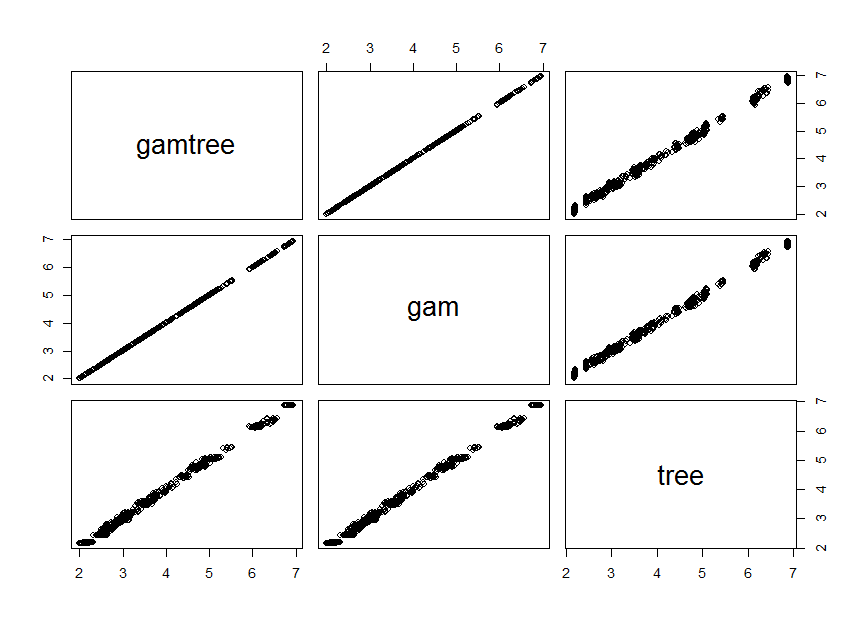
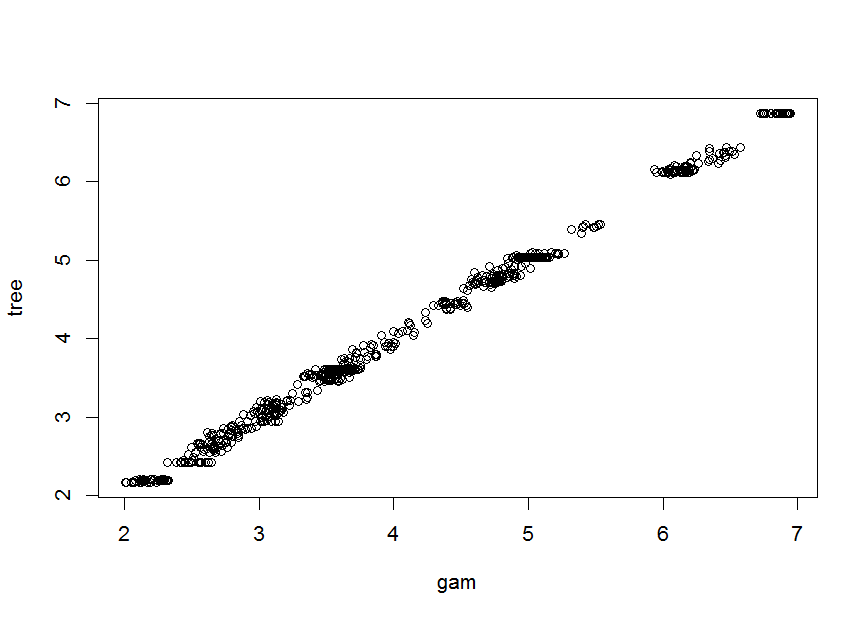
Updated README

diff --git a/README.md b/README.md
@@ -10,13 +10,15 @@ The package is experimental and much work needs to be done still.
 To-do list
 ----------
 
--   Add support for fitting GAMs using `bam()` instead of `gam()` (e.g., create `bam_fit` function, or include additional argument `type = c("gam", "bam")` in `gam_fit()` function.)
+-   Programming: Add support for fitting GAMs using `bam()` instead of `gam()` (e.g., create `bam_fit` function, or include additional argument `type = c("gam", "bam")` in `gam_fit()` function.)
 
--   The estimated smooths from the tree and the full GAM have similar, but not the same coefficients. Is that problematic? See section `Different coefficient estimates` below.
+-   Programming: Allow for specifying multiple different smooth function types, instead of only one, through the `FUN` argument.
 
--   Perform a simulation study to evaluate accuracy. Generate data where there is a local smooth term, with varying coefficients, as well as a global model with random effects and an additional global smooth or global parametric term. Compare accuracy of a full partially additive GAM (i.e., function `gamtree()` with `gam_form` specified), a partitioned GAM (i.e., local GAMs only; function `gamtree()` with `gam_form = NULL`), and a globally fitted GAM (i.e., no partitioning, function `gam()`).
+-   Issue: The estimated smooths from the tree and the full GAM have similar, but not the same coefficients. Is that problematic? See section `Different coefficient estimates` below.
 
--   Compare performance of function `gamtree()` (with and without `gam_form` specified) and `gam()` as in simulation study, but use existing data.
+-   Testing of the method: Perform a simulation study to evaluate accuracy. Generate data where there is a local smooth term, with varying coefficients, as well as a global model with random effects and an additional global smooth or global parametric term. Compare accuracy of a full partially additive GAM (i.e., function `gamtree()` with `gam_form` specified), a partitioned GAM (i.e., local GAMs only; function `gamtree()` with `gam_form = NULL`), and a globally fitted GAM (i.e., no partitioning, function `gam()`).
+
+-   Testing of the method: Compare performance of function `gamtree()` (with and without `gam_form` specified) and `gam()` as in simulation study, but use existing data.
 
 Example
 =======
@@ -639,27 +641,25 @@ We can also compare the predicted values:
 ``` r
 newdat <- eco
 newdat$x <- newdat$PAR
-preds <- data.frame(gamtree = predict(gt4),
-                    gam = predict(gt4$gamm),
+preds <- data.frame(gam = predict(gt4$gamm),
                     tree = predict(gt4$tree, newdata = newdat, 
                                    type = "response"))
 cor(preds)
-#>           gamtree       gam      tree
-#> gamtree 1.0000000 1.0000000 0.9980367
-#> gam     1.0000000 1.0000000 0.9980367
-#> tree    0.9980367 0.9980367 1.0000000
+#>            gam      tree
+#> gam  1.0000000 0.9980367
+#> tree 0.9980367 1.0000000
 colMeans(preds)
-#>  gamtree      gam     tree 
-#> 4.130796 4.130796 4.132666
+#>      gam     tree 
+#> 4.130796 4.132666
 sapply(preds, var)
-#>  gamtree      gam     tree 
-#> 1.700635 1.700635 1.701535
+#>      gam     tree 
+#> 1.700635 1.701535
 sapply(preds, max)
-#>  gamtree      gam     tree 
-#> 6.950960 6.950960 6.873325
+#>      gam     tree 
+#> 6.950960 6.873325
 sapply(preds, min)
-#>  gamtree      gam     tree 
-#> 2.001505 2.001505 2.166788
+#>      gam     tree 
+#> 2.001505 2.166788
 plot(preds)
 ```
 
@@ -710,27 +710,25 @@ plot(gt1$gamm)
 ![](inst/README-figures/README-unnamed-chunk-28-1.png)
 
 ``` r
-preds <- data.frame(gamtree = predict(gt1),
-                    gam = predict(gt1$gamm),
+preds <- data.frame(gam = predict(gt1$gamm),
                     tree = predict(gt1$tree, newdata = gt1$data, 
                                    type = "response"))
 cor(preds)
-#>           gamtree       gam      tree
-#> gamtree 1.0000000 1.0000000 0.9958099
-#> gam     1.0000000 1.0000000 0.9958099
-#> tree    0.9958099 0.9958099 1.0000000
+#>            gam      tree
+#> gam  1.0000000 0.9958099
+#> tree 0.9958099 1.0000000
 colMeans(preds)
-#>  gamtree      gam     tree 
-#> 4.130796 4.130796 4.130796
+#>      gam     tree 
+#> 4.130796 4.130796
 sapply(preds, var)
-#>  gamtree      gam     tree 
-#> 1.818162 1.818162 1.795889
+#>      gam     tree 
+#> 1.818162 1.795889
 sapply(preds, max)
-#>  gamtree      gam     tree 
-#> 7.027005 7.027005 6.888124
+#>      gam     tree 
+#> 7.027005 6.888124
 sapply(preds, min)
-#>  gamtree      gam     tree 
-#> 1.288532 1.288532 1.614462
+#>      gam     tree 
+#> 1.288532 1.614462
 plot(preds)
 ```
 
